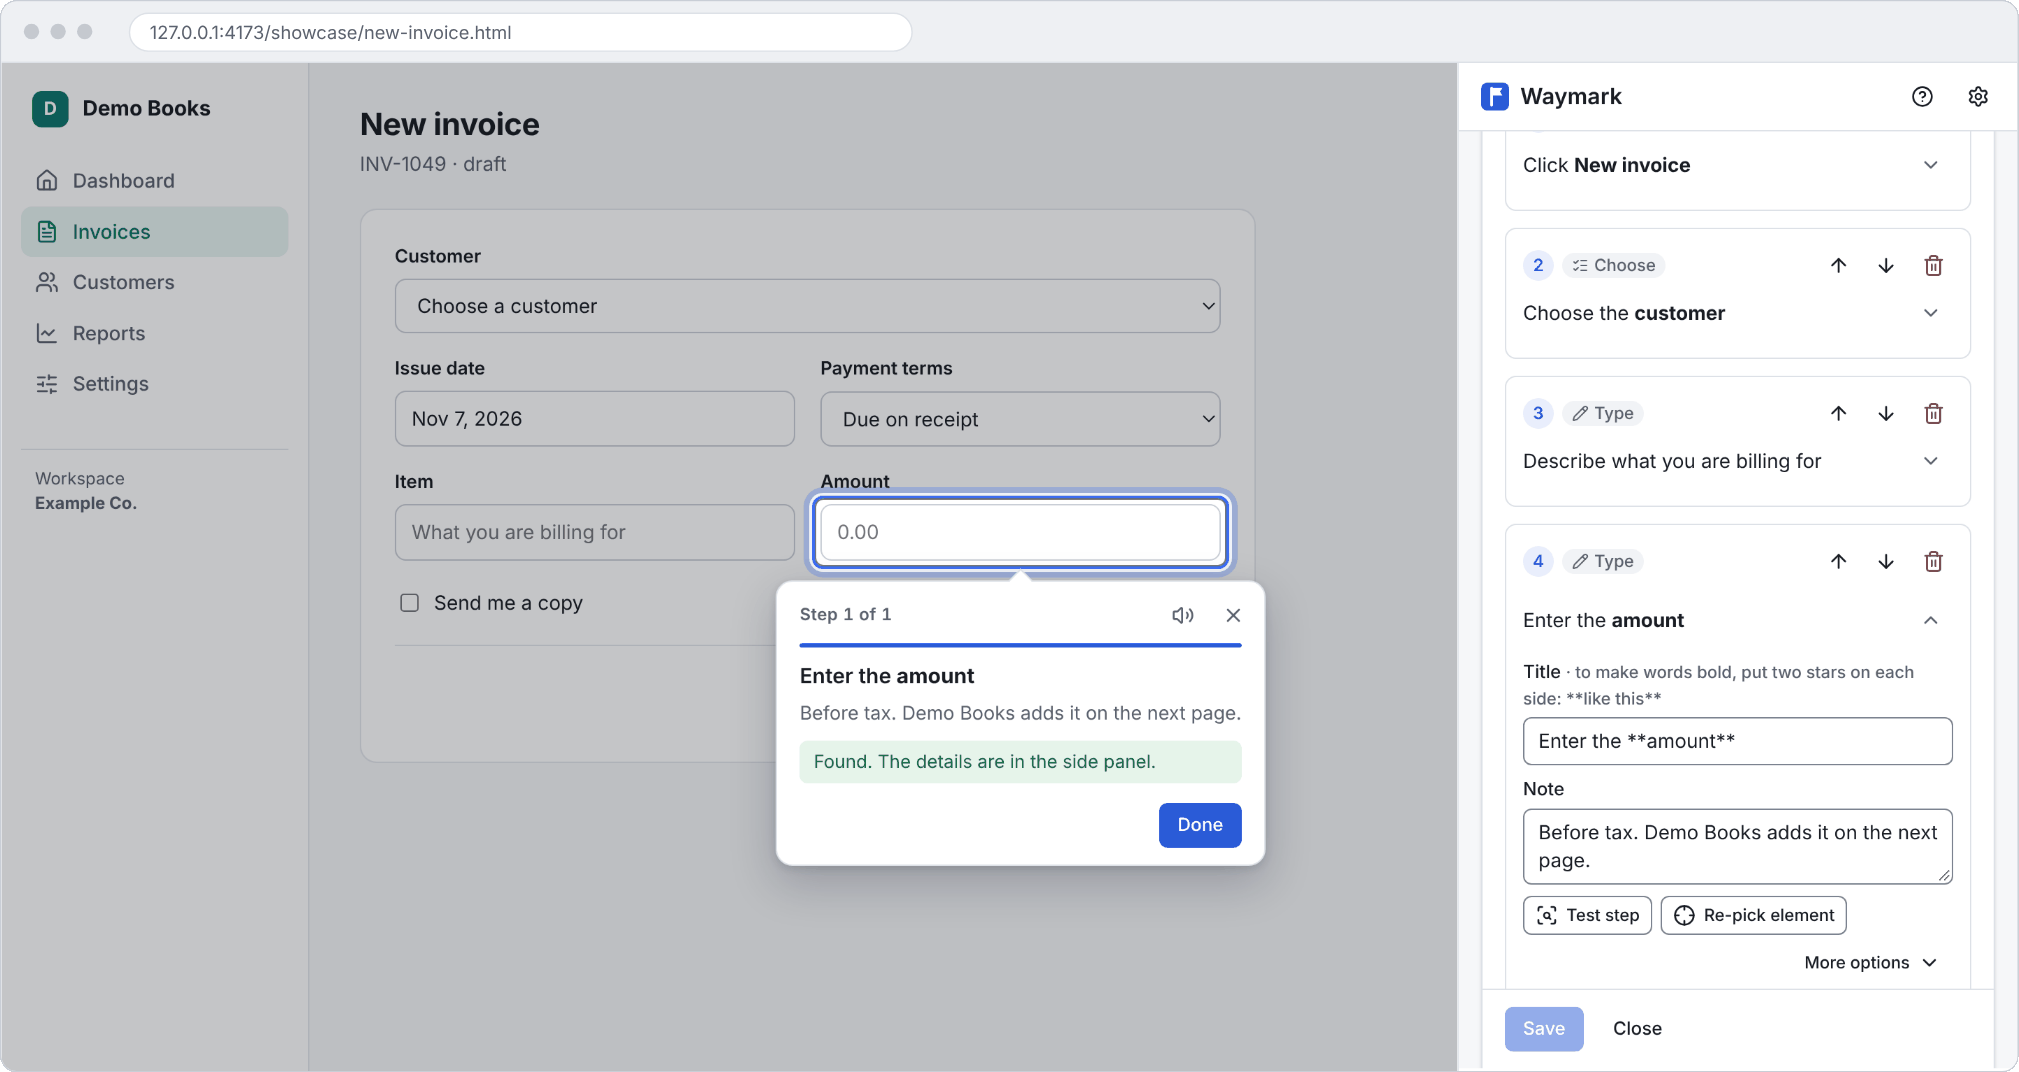
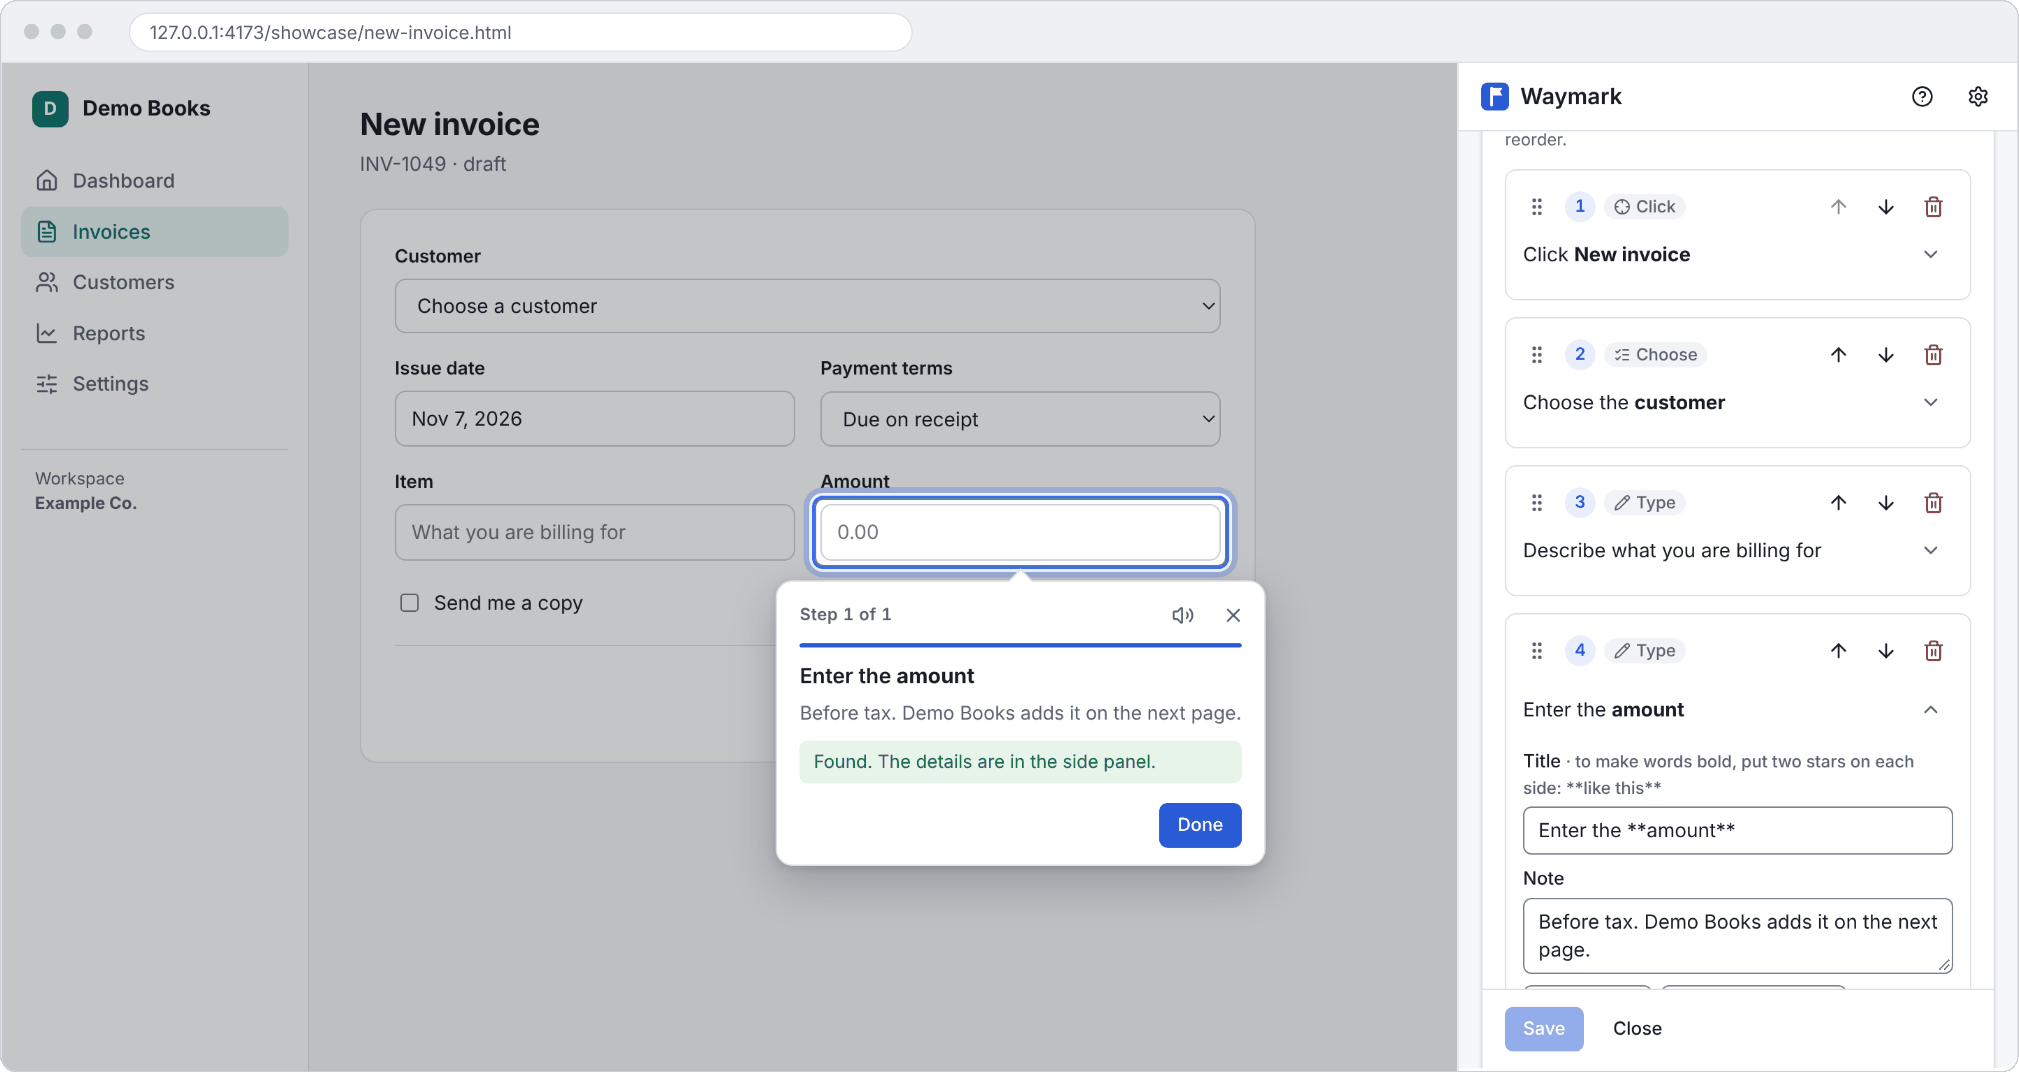
README: editor shot with the drag handle (#109, D233; after #108)
- Re-shot with pnpm shots:readme now that drag to reorder (D205) is on main.
- The editor shot scrolls the step list clear of the panel's sticky header.
- README caption and alt text mention dragging; D233 and docs/BRAND.md no longer list it as pending.
- shot-play.png re-shot too: the side panel below the playing card changed on main.

Claude-Session: https://claude.ai/code/session_012ZwsG5AHnEyzqomm8LhoTZ

diff --git a/test/shots/readme.spec.ts b/test/shots/readme.spec.ts
@@ -174,7 +174,7 @@ test('README screenshots', async ({ context, ext, site, extensionId }) => {
   await panel.getByTestId('step-3-test').click();
   await expect(panel.getByTestId('step-3-test-result')).not.toContainText('Looking', { timeout: 12_000 });
   await panel.getByTestId('step-0').evaluate((e) => e.scrollIntoView({ block: 'start' }));
-  await panel.evaluate(() => scrollBy(0, -12));
+  await panel.evaluate(() => scrollBy(0, -76)); // clear of the panel's sticky header
   await shot(panel, 'editor-panel');
   await app.bringToFront();
   await shot(app, 'editor-page');

diff --git a/docs/DECISIONS.md b/docs/DECISIONS.md
@@ -1976,4 +1976,5 @@ CI (PR #81, e2e shard 2, twice) stored step 1's box 47 px above its button. Repr
 
 ### D233. The editor's drag handle shot waits for #108
 *7 Nov 2026 · issue #109, D205*
-- The issue lists the editor "including the drag handle". Dragging to reorder (D205, #108) is being built separately and isn't on `main` yet, so the editor shot shows the up and down arrows. Once #108 is merged, re-run `pnpm shots:readme`; the editor shot then shows the handle with no script change. `docs/BRAND.md` notes it as pending.
+- The issue lists the editor "including the drag handle". Dragging to reorder (D205, #108) is being built separately and isn't on `main` yet, so the editor shot shows the up and down arrows. Once #108 is merged, re-run `pnpm shots:readme`; the editor shot then shows the handle with no script change.
+- **Done** (7 Nov 2026): #108 merged as PR #111; the editor shot was re-shot and shows each step's drag handle. No script change was needed beyond scrolling the step list clear of the panel's sticky header.

diff --git a/README.md b/README.md
@@ -35,9 +35,9 @@ Screenshots of the made-up "Demo Books" app in the test fixtures, re-shot each r
 
 ![Playing a guide: the Customer field is spotlighted, the tooltip reads Step 2 of 6, Choose the customer, and the panel shows the guide playing.](docs/assets/shot-play.png)
 
-**Edit.** Change a step's text, add a note, test it on the page, or point it at another element.
+**Edit.** Change a step's text, add a note, test it on the page, point it at another element, or drag a step by its handle to reorder.
 
-![The editor in the side panel: steps of the guide, with step 4 open showing its title, note, Test step and Re-pick element.](docs/assets/shot-editor.png)
+![The editor in the side panel: steps of the guide with their drag handles, step 4 open showing its title, note, Test step and Re-pick element.](docs/assets/shot-editor.png)
 
 **Find.** The `?` button on the page lists the guides for that page, with a search once there are many.
 

diff --git a/docs/BRAND.md b/docs/BRAND.md
@@ -47,8 +47,6 @@ All in `docs/assets/`, each under 300 KB (`test/unit/readme-assets.test.ts` chec
 | `social-preview.png` | GitHub social preview, 1280 × 640 (upload it in the repository's Settings → General → Social preview) |
 | `store/store-small-440x280.png`, `store/store-marquee-1400x560.png` | Chrome Web Store tiles, for a later listing (D58) |
 
-Pending: a shot of the editor's drag handle (D205, #108) is added once that change is on `main` (D233).
-
 ## Re-shooting
 
 ```sh
